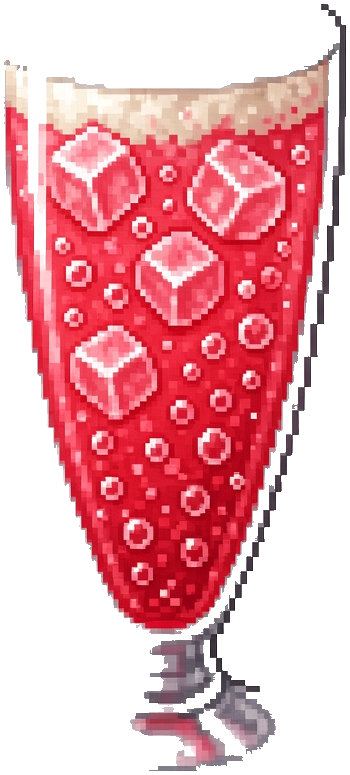
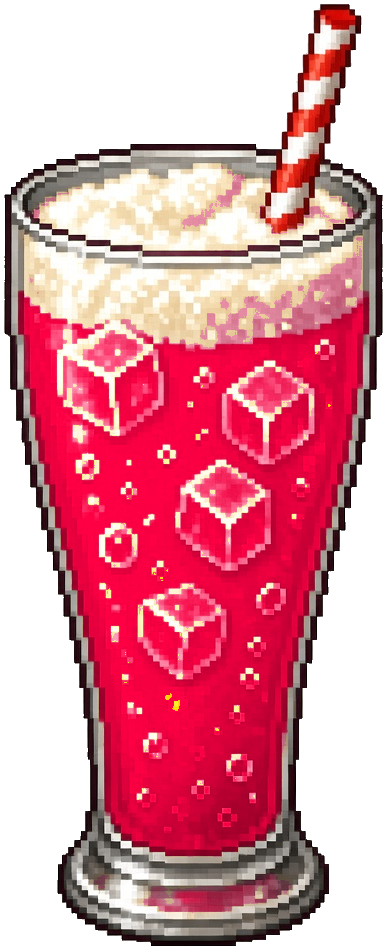
Show each patron holding the drink they caught
A served patron now pauses for a beat holding their drink before turning
to walk out, so a correct serve reads as a reward instead of the patron
just turning around.

The glass is the same art the player taps on the tap handle, composited
into each portrait's outstretched hand rather than redrawn — generating
it was unreliable (half the attempts came back with an empty fist or a
washed-out glass) and inconsistent colour would undermine the whole
colour-matching mechanic. Hand position is detected per sprite, and the
canvas is padded symmetrically so the body stays centred and the sprite
swap doesn't jog the patron sideways.

The pose is deliberately held still: it's a single frame, so sliding it
along the counter would moonwalk the same way the old static walk-out
did. Walking out still uses the animated cycle.

Also rebuilds drink-pink.png, which was missing its left outline, straw
and most of its base — a break that showed on the mug sliding down the
counter too. Recoloured from the intact orange glass so both match.

diff --git a/soda-jerk-web/src/components/Customer.jsx b/soda-jerk-web/src/components/Customer.jsx
@@ -29,6 +29,23 @@ const PATRON_SRC = [
 // enough to miss details like the caricature patrons otherwise.
 const PATRON_HEIGHT = [89, 91, 89, 89, 89, 89, 89, 89]
 
+// The moment-of-catch pose: the same portrait art with the drink they
+// actually ordered placed in their outstretched hand, so the reward for a
+// correct serve is legible. The glass is the very same art the player taps
+// on the tap handle, composited in — not a redrawn one — so the colour
+// reads identically to the drink they chose. Padded symmetrically around
+// the body, so swapping this in doesn't jog the patron sideways.
+const PATRON_HELD_SRC = [
+  [`${import.meta.env.BASE_URL}art/patron-orange-held.png`, `${import.meta.env.BASE_URL}art/patron-pink-held.png`],
+  [`${import.meta.env.BASE_URL}art/patron2-orange-held.png`, `${import.meta.env.BASE_URL}art/patron2-pink-held.png`],
+  [`${import.meta.env.BASE_URL}art/patron3-orange-held.png`, `${import.meta.env.BASE_URL}art/patron3-pink-held.png`],
+  [`${import.meta.env.BASE_URL}art/patron4-orange-held.png`, `${import.meta.env.BASE_URL}art/patron4-pink-held.png`],
+  [`${import.meta.env.BASE_URL}art/patron5-orange-held.png`, `${import.meta.env.BASE_URL}art/patron5-pink-held.png`],
+  [`${import.meta.env.BASE_URL}art/patron6-orange-held.png`, `${import.meta.env.BASE_URL}art/patron6-pink-held.png`],
+  [`${import.meta.env.BASE_URL}art/patron7-orange-held.png`, `${import.meta.env.BASE_URL}art/patron7-pink-held.png`],
+  [`${import.meta.env.BASE_URL}art/patron8-orange-held.png`, `${import.meta.env.BASE_URL}art/patron8-pink-held.png`],
+]
+
 // Real 8-frame walk-cycle sprite sheets (PixelLab-generated from each static
 // illustration), used while a patron is actively walking in. Each entry's
 // aspectRatio (native frame width / height) keeps the sprite from stretching
@@ -112,6 +129,11 @@ export default function Customer({ x, drinkType, patronType, status, drinkName, 
   // sprite across the counter with motionless legs, which reads as
   // moonwalking backwards rather than walking out.
   const isLeaving = status === 'leaving-happy'
+  // Standing still showing off the drink they just caught — held at full
+  // brightness, since this is the reward beat, not the "already served,
+  // don't throw at me" state that follows it.
+  const isToasting = status === 'toasting'
+  const heldSrc = isToasting ? PATRON_HELD_SRC[patronType]?.[drinkType] : null
   const walkSheet =
     status === 'walking' || isLeaving ? PATRON_WALK_SHEETS[patronType]?.[drinkType] : null
 
@@ -140,7 +162,14 @@ export default function Customer({ x, drinkType, patronType, status, drinkName, 
       }}
       title={drinkName}
     >
-      {walkSheet ? (
+      {heldSrc ? (
+        <img
+          src={heldSrc}
+          alt=""
+          className="patron-toast"
+          style={{ height: PATRON_HEIGHT[patronType], width: 'auto', display: 'block' }}
+        />
+      ) : walkSheet ? (
         <div
           className="patron-walk-cycle-sprite"
           style={{

diff --git a/soda-jerk-web/src/game/useGameEngine.js b/soda-jerk-web/src/game/useGameEngine.js
@@ -672,6 +672,17 @@ function step(sim, dt) {
           c.pauseMs = randomBetween(C.WALK_PAUSE_MIN_MS, C.WALK_PAUSE_MAX_MS)
         }
       }
+    } else if (c.status === 'toasting') {
+      // A beat standing still to show off the drink they just caught,
+      // before turning around and walking out. Held still on purpose —
+      // the held-drink art is a single pose, so sliding it along the
+      // counter would moonwalk exactly the way the old static walk-out
+      // did.
+      c.toastMs -= dt * 1000
+      if (c.toastMs <= 0) {
+        c.status = 'leaving-happy'
+        c.speed = (C.OFFSCREEN_X - c.x) / (C.CUSTOMER_WALK_OUT_MS / 1000)
+      }
     } else if (c.status === 'leaving-happy') {
       c.x += c.speed * dt
     }
@@ -693,8 +704,10 @@ function step(sim, dt) {
       sim.score += C.POINTS_PER_SERVE
       target.drinksNeeded -= 1
       if (target.drinksNeeded <= 0) {
-        target.status = 'leaving-happy'
-        target.speed = (C.OFFSCREEN_X - target.x) / (C.CUSTOMER_WALK_OUT_MS / 1000)
+        // Pause to show the drink off before heading out — the walk-out
+        // speed gets set when that beat ends (see the 'toasting' branch).
+        target.status = 'toasting'
+        target.toastMs = C.CUSTOMER_TOAST_MS
       }
 
       // One returning glass per lane at a time — otherwise catching the

diff --git a/soda-jerk-web/src/index.css b/soda-jerk-web/src/index.css
@@ -373,3 +373,15 @@ body {
     box-shadow: 0 0 0 10px #000, 0 20px 60px rgba(0,0,0,0.6);
   }
 }
+
+/* The catch beat: a served patron holds the drink up for a moment before
+   turning to leave. A small lift-and-settle so the pause reads as raising
+   the glass rather than the sprite simply freezing mid-walk. */
+@keyframes patron-toast-lift {
+  0%   { transform: translateY(2px) scale(0.99); }
+  35%  { transform: translateY(-3px) scale(1.02); }
+  100% { transform: translateY(0) scale(1); }
+}
+.patron-toast {
+  animation: patron-toast-lift 620ms ease-out both;
+}

diff --git a/soda-jerk-web/src/game/constants.js b/soda-jerk-web/src/game/constants.js
@@ -46,6 +46,9 @@ export const THROW_ANIM_MS = 500
 // distinguishing them. Telling them apart is now the job of a clear
 // visual cue instead (see Customer.jsx's leaving-happy styling).
 export const CUSTOMER_WALK_OUT_MS = 900
+// How long a served patron stands still holding the drink they just
+// caught, before turning to leave — see the 'toasting' status.
+export const CUSTOMER_TOAST_MS = 620
 
 // A walking-in customer occasionally pauses for a beat instead of
 // marching in a dead straight line — feels more like browsing, less
